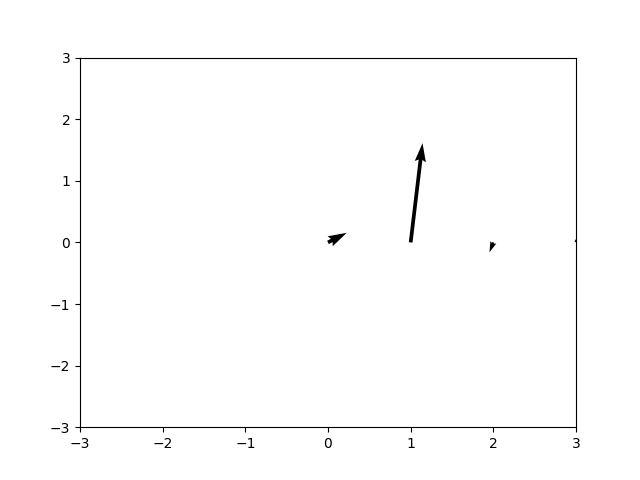
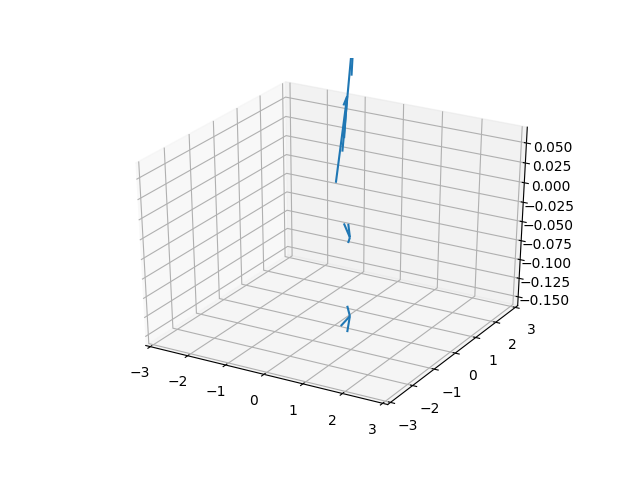
3D fixed, kind of

diff --git a/word2blank/ongoing/word2vec-symplectic/visualizer/visualizer.py b/word2blank/ongoing/word2vec-symplectic/visualizer/visualizer.py
@@ -3,6 +3,7 @@ from gensim.models.keyedvectors import KeyedVectors
 import numpy as np
 import gensim
 from tqdm import tqdm
+from mpl_toolkits.mplot3d import Axes3D
 
 def load_embedding(fpath, x):
     print("Loading embeddings...")
@@ -23,9 +24,9 @@ def get_embs(emb, wordlist):
 
 def plot(mat, fname):
     X, Y, Z, U, V, W = zip(*mat)
-    plt.figure()
-    ax = plt.gca()
-    ax.quiver(X, Y, Z, U, V, W, angles='xy', scale_units='xy', scale=0.1, edgecolor=['red', 'blue', 'green', 'yellow'])
+    fig = plt.figure()
+    ax = fig.gca(projection='3d')
+    ax.quiver(X, Y, Z, U, V, W)
     ax.set_xlim([-3, 3])
     ax.set_ylim([-3, 3])
     plt.draw()
